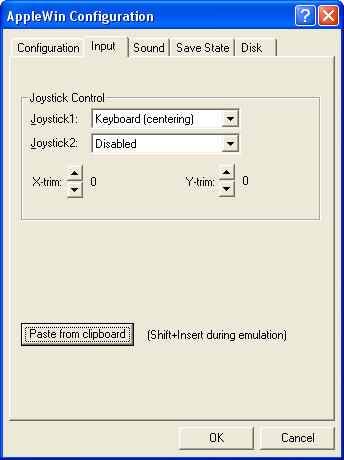
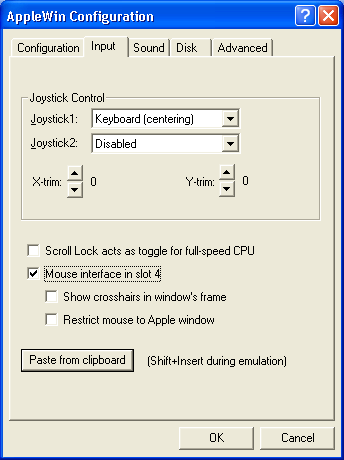
Update html-help files

diff --git a/trunk/AppleWin/help/keyboard.html b/trunk/AppleWin/help/keyboard.html
@@ -44,8 +44,7 @@
 			again to resume emulation.</p>
 		<p><span style="font-weight: bold;">Scroll Lock:</span><br>
 			Holding down the PC's
-			<span style="font-style: italic;">Scroll
-Lock</span>
+			<span style="font-style: italic;">Scroll Lock</span>
 			key temporarily sets the emulation to full speed (i.e. unthrottled).<br>
 			NOTE:&nbsp; The status of the PC's
 			<span style="font-style: italic;">Scroll Lock</span>
@@ -55,25 +54,22 @@ Lock</span>
 		<p><span style="font-weight: bold;">Shift+Insert:</span><br>
 			Paste text from Windows' clipboard. Text gets fed a character at a time to the 
 			Apple's keyboard hardware. The 'CR+LF' combination&nbsp;gets converted to CR.</p>
-		<p>
-			<span style="font-weight: bold;">Function Keys
-F1-F8:</span><br>
+		<p><span style="font-weight: bold;">Function Keys F1-F8:</span><br>
 			These PC function keys correspond to buttons on the <a href="toolbar.html">toolbar</a>.</p>
 		<p><span style="font-weight: bold;">Function Key F9:</span><br>
 			This PC function key will cycle through AppleWin's display modes:&nbsp; 
 			monochrome (custom), color (normal), color (text optimized), color (TV 
 			emulation), etc. This shortcut allows you to switch display modes without going 
-			through the configuration dialog.</p><span style="font-weight: bold;">Function Key F9 + Ctrl:<br></span>This
-PC function key will cycle through AppleWin's character sets:&nbsp;
-original Apple II charsets and clones' charsets. This shortcut allows
-you to override the default character sets of the Apple II model or clone.
-		<p><span style="font-weight: bold;">Function Key F10 (or
-Ctrl+left mouse button):</span><br>
+			through the configuration dialog. <br>NB. Use Shift+F9 to reverse-cycle the display modes.</p>
+		<p><span style="font-weight: bold;">Function Key F9 + Ctrl:<br></span>This
+            PC function key will cycle through AppleWin's character sets:&nbsp;
+            original Apple II charsets and clones' charsets. This shortcut allows
+            you to override the default character sets of the Apple II model or clone.</p>
+		<p><span style="font-weight: bold;">Function Key F10 (or Ctrl+left mouse button):</span><br>
 			This PC function key will stop emulating an Apple joystick with the PC's mouse.<br>In
-Pravets 8A emulation mode it servers as Caps Lock and Ctrl+ F10 shall
-be used to stop emulating an Apple joystick with the PC's mouse.</p>
-		<p><span style="font-weight: bold;">Function Keys
-F11-F12:</span><br>
+            Pravets 8A emulation mode it servers as Caps Lock and Ctrl+F10 shall
+            be used to stop emulating an Apple joystick with the PC's mouse.</p>
+		<p><span style="font-weight: bold;">Function Keys F11-F12:</span><br>
 			These PC function keys correspond to saving/loading a <a href="savestate.html">save-state</a>
 			file.</p>
 	</body></html>

diff --git a/trunk/AppleWin/help/cfg-input.html b/trunk/AppleWin/help/cfg-input.html
@@ -20,20 +20,43 @@ These options allow you to configure up to two joysticks attached to
 the emulated Apple //e system.<br>
 
 <ul>
-
   <li>Joystick 1/2: Choose the emulation method for joysticks 1 and 2.</li>
-
-
   <li>X/Y-trim: &nbsp;These controls&nbsp;add a trim value to the
 joystick X/Y offsets when the joystick is centered. Normally central
 position is X=127, Y=127 so this adds the trim value for PC joysticks
 &amp; keyboard (centering). If you are using an analog PC joystick,
 then you should leave these values at 0.</li>
-
 </ul>
 
-<strong>Paste from clipboard:</strong><br>
 
+<strong>Scroll Lock acts as toggle for full-speed CPU:</strong><br>
+<ul>
+  <li>When checked, you can permanently enable full-speed CPU when Scroll Lock is on.</li>
+  <li>When unchecked, only when Scroll Lock is depressed will you get full-speed CPU.</li>
+</ul>
+
+
+<strong>Mouse interface in slot 4:</strong><br>
+
+<ul>
+  <li>Disables joystick emulation with mouse.</li>
+  <li>Disables Mockingboard/Phasor in slot 4.</li>
+  <li>Show crosshairs in window's frame:</li>
+  <ul>
+    <li>Configure whether you want crosshairs or not</li>
+  </ul>
+  <li>Restrict mouse to Apple window:</li>
+  <ul>
+    <li>Resticting is useful for paint applications</li>
+    <li>When unrestricted, the emulated mouse is fully integrated with the Window desktop:
+moving in and out of the AppleWin window will switch between Windows' and the Apple's mouse cursor.</li>
+    <li>NB. Even when unrestricted, you won't be able to move the mouse outside the Apple window for GEOS. This is not a bug.</li>
+    <li>Tip: Use Ctrl+Left Mouse Button to show the Windows mouse cursor (eg. essential for GEOS).</li>
+  </ul>
+</ul>
+
+
+<strong>Paste from clipboard:</strong><br>
 Pressing this button will allow you to paste text from the
 Windows' clipboard into the emulated Apple //e.<br>
 

diff --git a/trunk/AppleWin/help/cfg-advanced.html b/trunk/AppleWin/help/cfg-advanced.html
@@ -3,7 +3,7 @@
 <head>
 
   <meta http-equiv="Content-Type" content="text/html; charset=windows-1252">
-  <title>Save State Settings</title>
+  <title>Advanced Settings</title>
 
 
 </head>
@@ -11,9 +11,9 @@
 
 <body style="background-color: rgb(255, 255, 255); font-family: verdana;" alink="#008000" link="#008000" vlink="#008000">
 
-<h2 style="color: rgb(0, 128, 0);">Save State Settings</h2>
+<h2 style="color: rgb(0, 128, 0);">Advanced Settings</h2>
 
-<hr size="4"><img style="width: 344px; height: 460px; float: right;" src="img/savestate.png" alt="Save State settings" hspace="5" vspace="5">
+<hr size="4"><img style="width: 344px; height: 460px; float: right;" src="img/advanced.png" alt="Advanced settings" hspace="5" vspace="5">
 <p><strong>Save State File Name:</strong><br>
 
 This is the file name to use for save-state files. The default
@@ -36,6 +36,15 @@ emulation by pressing the F11 key.</p>
 Press this button to load the specified state file into
 the emulator. &nbsp;You can also load the system state during
 emulation by pressing the F12 key.</p>
+
+<p><strong>Clone:</strong><br>
+
+If you have specified Computer as 'Clone' on the main Configuration page, then this drop-down menu can be used to specify the clone type.<br>
+NB. Pravets 82 and 8A are Bulgarian Apple II clones.<br>
+
+<p><strong>The Freeze's non-autostart F8 rom:</strong><br>
+If you have specified Computer as 'Apple ][' or 'Apple ][+' on the main Configuration page, then you will be able to enable this setting.
+The Freeze F8 rom is a hacker's rom that replaces the normal 2K rom at $F800. <a href="cfg-advanced-freeze-rom.html">Here's the original release note</a>
 
 </body>
 </html>

diff --git a/trunk/AppleWin/help/cfg-advanced-freeze-rom.html b/trunk/AppleWin/help/cfg-advanced-freeze-rom.html
@@ -1,0 +1,57 @@
+<!DOCTYPE HTML PUBLIC "-//W3C//DTD HTML 4.01 Transitional//EN">
+<html>
+<head>
+
+  <meta http-equiv="Content-Type" content="text/html; charset=windows-1252">
+  <title>Advanced Settings</title>
+
+
+</head>
+
+<span style="font-family: Courier">
+=-------------------------------------=<br>
+=-> Freeze's F-8 ROM &nbsp;A PPG release <-=<br>
+=-------------------------------------=<br>
+
+&nbsp;The Freeze's F-8 ROM is a modified F-8<br>
+rom that has several added features.<br><br>
+
+-Old Monitor Reset<br>
+-Step and Trace modes<br>
+-Disassembly with ASCII<br>
+-Disassembly with Binary in #Mode<br>
+-Better sounding bell!<br><br>
+
+&nbsp;These advanced features make Monitor<br>
+programming and Cracking much easier.<br><br>
+
+&nbsp;There are two ways you can use this<br>
+program. Either load it into the RAM<br>
+Card using the FREEZE.INSTALL program.<br>
+The other way is to burn it onto a<br>
+2716 EPROM (Schematics later).<br><br>
+
+&nbsp;The only thing that really need an<br>
+explanation is the disassembly. In the<br>
+disassembly, it displays the ASCII<br>
+value of the byte to the right. The<br>
+binary numbers on the far right are<br>
+displayed when an instruction on the<br>
+accumulator in immediate mode is<br>
+encountered.<br><br>
+
+2716 Schematics<br>
+===============<br><br>
+
+&nbsp;I would suggest that you do these<br>
+modifications to a socket rather than<br>
+directly to the chip...<br><br>
+
+&nbsp;First, cut off pins 21 and 18.<br>
+Connect pins 12 and 18<br>
+Connect pins 21 and 24<br>
+
+--------------------------------------- </span>
+
+</body>
+</html>

diff --git a/trunk/AppleWin/help/contact.html b/trunk/AppleWin/help/contact.html
@@ -1,19 +1,20 @@
 <!DOCTYPE HTML PUBLIC "-//W3C//DTD HTML 4.01 Transitional//EN">
 <html>
 	<head>
-		<title>Contacting the Author</title>
+		<title>Contacting the Developers</title>
 		<meta http-equiv="Content-Type" content="text/html; charset=windows-1252">
 	</head>
 	<body style="FONT-FAMILY: verdana; BACKGROUND-COLOR: rgb(255,255,255)" vLink="#008000"
 		aLink="#008000" link="#008000">
-		<h2><font color="#008000">Contacting the developers</font></h2>
+		<h2><font color="#008000">Contacting the Developers</font></h2>
 		<P>
 			<hr SIZE="4">
 		<P></P>
 		<P><br>
 			To contact the&nbsp;project administrators, email:<br>
 			<A href="mailto:tomch@users.berlios.de">Tom Charlesworth</A><br>
-			<A href="mailto:mpohoreski@users.berlios.de">Michael&nbsp;Pohoreski</A></P>
+			<A href="mailto:mpohoreski@users.berlios.de">Michael&nbsp;Pohoreski</A><br>
+			<A href="mailto:nick_westgate@users.berlios.de">Nick&nbsp;Westgate</A></P>
 		<br>
 		<P>Bug reports should be submitted here:<br>
 			<A href="https://developer.berlios.de/bugs/?func=addbug&amp;group_id=6117">https://developer.berlios.de/bugs/?func=addbug&amp;group_id=6117</A>

diff --git a/trunk/AppleWin/help/cfg-config.html b/trunk/AppleWin/help/cfg-config.html
@@ -16,10 +16,14 @@
 		<ul>
 			<li>
 			Apple ][ : Non-autobooting, 64K machine, no lower-case, no 80-column, 6502 CPU
-			<LI>
-			Apple ][+ :&nbsp;Autobooting version of the Apple ][&nbsp;
 			<li>
-				Apple //e : 128K machine, lower-case, 80-column, 65C02 CPU</li>
+			Apple ][+ : Autobooting version of the Apple ][
+			<li>
+			Apple //e : 128K machine, lower-case, 80-column, 6502 CPU</li>
+			<li>
+			Enhanced Apple //e : 128K machine, lower-case, 80-column, 65C02 CPU</li>
+			<li>
+			Clone (specific model selectable from Advanced page)</li>
 		</ul>
 		<strong>Video:</strong><br>
 		AppleWin can display Apple video in a variety of modes. The display can also be 
@@ -51,7 +55,7 @@
 		<P>
 			<strong>Serial Port:<br>
 			</strong>This option will remap the emulated Apple's serial port to your PC's 
-			serial port. The Apple Super Serial Card is partially emulated in slot-2.<br>
+			serial port. The Apple Super Serial Card is emulated in slot-2.<br>
 			<STRONG>
 				<BR>
 				Ethernet Settings...:</STRONG>

diff --git a/trunk/AppleWin/help/savestate.html b/trunk/AppleWin/help/savestate.html
@@ -18,8 +18,8 @@
 		<p>The entire Apple //e state is saved to a file (.aws). This includes Disk][ (even 
 			during r/w operation) and Mockingboards.</p>
 		<p><span style="FONT-WEIGHT: bold">1</span>
-			Currently the harddisk state is not persisted to the .aws file. Phasor and 
-			Uthernet cards are not persisted either.</p>
+			Currently the harddisk state is not persisted to the .aws file. Phasor,
+			Uthernet and Mouse cards are not persisted either.</p>
 		<p>Note: Only the file names of the disk images are stored in the .aws (not the 
 			full path). This allows you to move your disk image around or distribute them. 
 			If AppleWin can't locate the disk image(s), then it will prompt for the new 

diff --git a/trunk/AppleWin/help/CommandLine.html b/trunk/AppleWin/help/CommandLine.html
@@ -18,7 +18,9 @@
 		-f<br>
 		Start in full-screen mode<br><br>
 		-r &lt;number of pages&gt;<br>
-		Emulate a RAMworks III card with 1 to 127 pages (each page is 64K, giving a max of 8MB)<br>
+		Emulate a RAMworks III card with 1 to 127 pages (each page is 64K, giving a max of 8MB)<br><br>
+		-f8rom &lt;rom-file&gt;<br>
+		Use custom 2K ROM at [$F800..$FFFF]. &lt;rom-file&gt; must be 2048 bytes long<br>
 		<P>&nbsp;</P>
 		<P style="FONT-WEIGHT: bold">Debug arguments:
 		</P>

diff --git a/trunk/AppleWin/help/applewin-team.html b/trunk/AppleWin/help/applewin-team.html
@@ -10,7 +10,7 @@
             AppleWin team</h2>
 		<hr size="4">
 		<p>
-            Tom Charlesworth</p>
+            Tom Charlesworth (Project lead)</p>
         <p>
             Michael Pohoreski (Debugger rewrite)</p>
         <p>
@@ -19,5 +19,7 @@
             Linards Ticmanis (Illegal/undefined opcodes)</p>
         <p>
             Glenn Jones (Uthernet card)</p>
+        <p>
+            Stannev (Pravets - Bulgarian Apple][ clone)</p>
 	</body>
 </html>

diff --git a/trunk/AppleWin/help/acknowledgements.html b/trunk/AppleWin/help/acknowledgements.html
@@ -14,5 +14,6 @@
 		<p style="MARGIN-LEFT: 40px">Robert Hoem: Harddisk card (source module &amp; f/w)</p>
 		<P style="MARGIN-LEFT: 40px">
 			Spiro Trikaliotis: (VICE) whose code Glenn Jones adapted for Uthernet support</P>
+		<p style="MARGIN-LEFT: 40px">Kyle Kim: Mouse card support based on code from Apple in PC</p>
 	</body>
 </html>

diff --git a/trunk/AppleWin/help/cfg-disk.html b/trunk/AppleWin/help/cfg-disk.html
@@ -84,5 +84,10 @@ Copy][+ which is fixed in later versions.</li>
 </ul>
 
 
+<strong>Path to CiderPress:</strong><br>
+
+Use this to specify where CiderPress is installed.<br>
+The right button context menu on either of the drive icons allows you to open CiderPress with the image in the drive.
+
 </body>
 </html>
